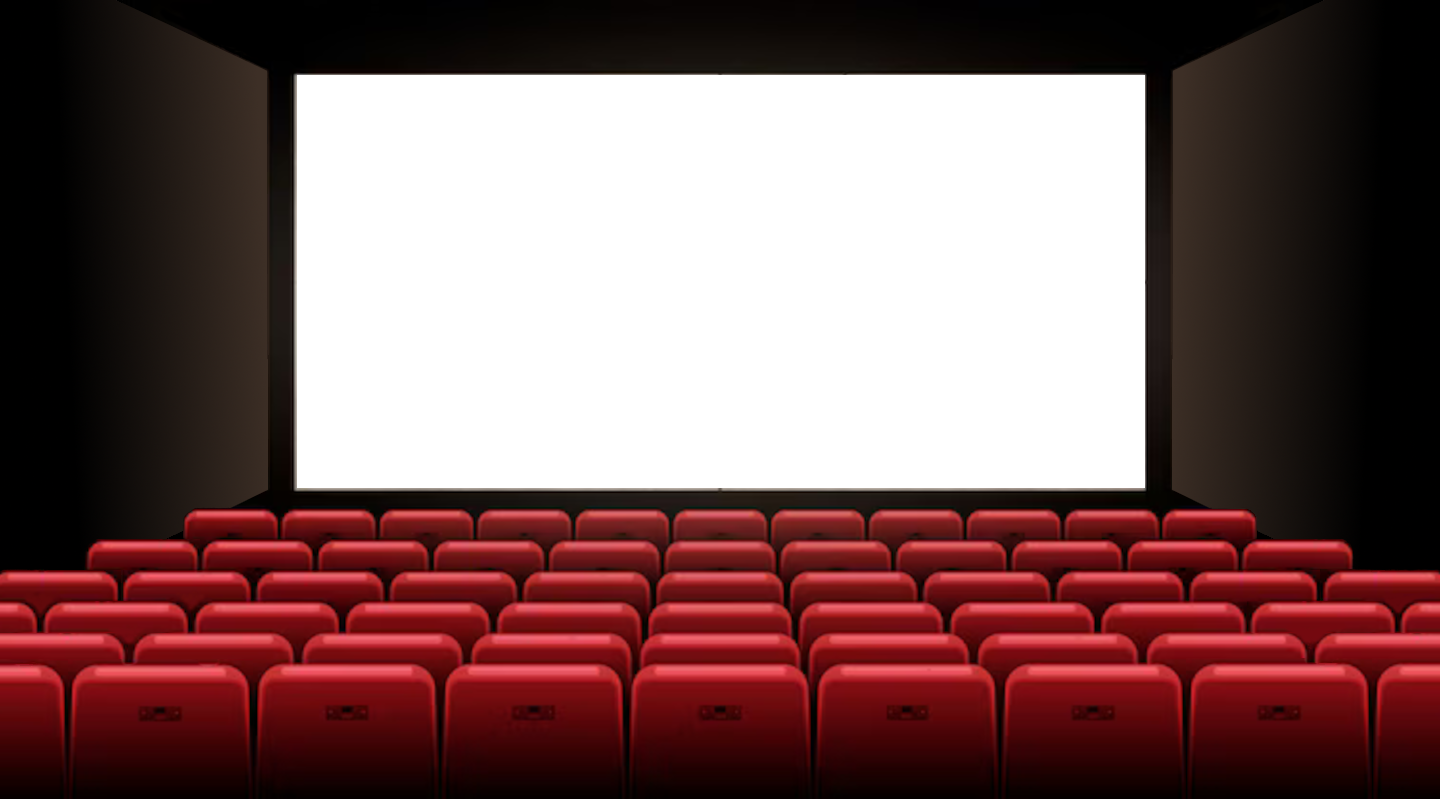
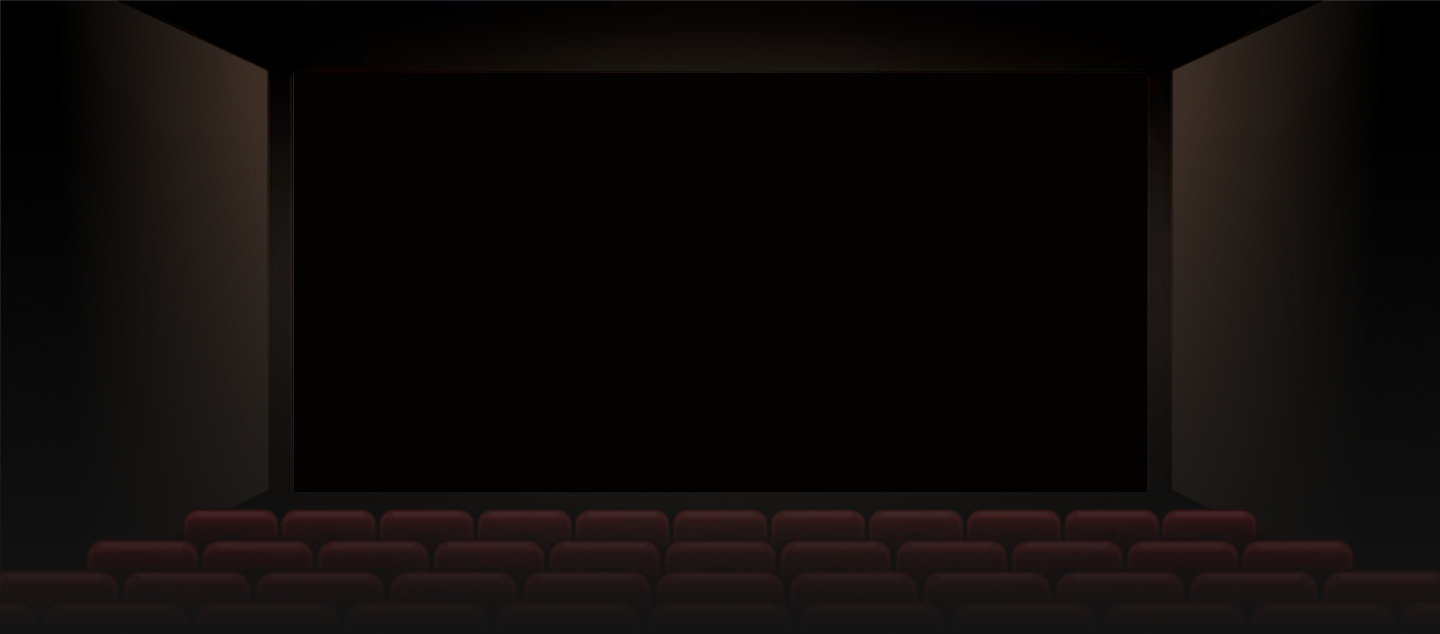
💄 Changement image fond

diff --git a/src/components/hero/hero.jsx b/src/components/hero/hero.jsx
@@ -8,12 +8,14 @@ const Hero = () => {
     const [error, setError] = useState(null);
     const [movies, setMovies] = useState([]);
     const [currentMovieIndex, setCurrentMovieIndex] = useState(0);
+    const [previousMovieIndex, setPreviousMovieIndex] = useState(null);
+    const [fadeClass, setFadeClass] = useState("fade-in");
 
     useEffect(() => {
         const getPopularMovies = async () => {
             try {
                 const popularMovies = await fetchMovies();
-                setMovies(popularMovies.slice(0, 10)); // Prendre les 10 premiers films populaires
+                setMovies(popularMovies.slice(0, 20)); // Prendre les 20 premiers films populaires
             } catch (error) {
                 console.error("Erreur lors de la récupération des films populaires:", error);
                 setError(error.message);
@@ -26,18 +28,24 @@ const Hero = () => {
     useEffect(() => {
         if (movies.length > 0) {
             const interval = setInterval(() => {
-                setCurrentMovieIndex(prevIndex => (prevIndex + 1) % movies.length);
-            }, 5000); // Changer de film toutes les 5 secondes
+                setFadeClass("fade-out");
+                setPreviousMovieIndex(currentMovieIndex);
+                setTimeout(() => {
+                    setCurrentMovieIndex(prevIndex => (prevIndex + 1) % movies.length);
+                    setFadeClass("fade-in");
+                }, 500); // Durée de l'animation de fondu
+            }, 3000); // Changer de film toutes les 3 secondes
 
             return () => clearInterval(interval);
         }
-    }, [movies]);
+    }, [movies, currentMovieIndex]);
 
     if (error) {
         return <div>Erreur: {error}</div>;
     }
 
     const currentMovie = movies[currentMovieIndex];
+    const previousMovie = previousMovieIndex !== null ? movies[previousMovieIndex] : null;
 
     return (
         <div className="position-relative">
@@ -46,18 +54,29 @@ const Hero = () => {
                 className="img-fluid w-100 banner-image"
                 alt="Le plus populaire"
             />
-            {currentMovie && currentMovie.backdrop_path && (
+            {previousMovie && previousMovie.backdrop_path && (
                 <div 
-                    className="position-absolute movie-backdrop"
+                    className={`position-absolute movie-backdrop fade-out`}
                     style={{
-                        backgroundImage: `url(https://image.tmdb.org/t/p/original${currentMovie.backdrop_path})`,
+                        backgroundImage: `url(https://image.tmdb.org/t/p/original${previousMovie.backdrop_path})`,
                         backgroundSize: 'cover',
                         backgroundPosition: 'center',
                         zIndex: 1
                     }}
                 />
             )}
-            <div className="position-absolute top-0 start-0 w-100 h-100 d-flex flex-column justify-content-center align-items-center" style={{ zIndex: 2 }}>
+            {currentMovie && currentMovie.backdrop_path && (
+                <div 
+                    className={`position-absolute movie-backdrop ${fadeClass}`}
+                    style={{
+                        backgroundImage: `url(https://image.tmdb.org/t/p/original${currentMovie.backdrop_path})`,
+                        backgroundSize: 'cover',
+                        backgroundPosition: 'center',
+                        zIndex: 2
+                    }}
+                />
+            )}
+            <div className="position-absolute top-0 start-0 w-100 h-100 d-flex flex-column justify-content-center align-items-center" style={{ zIndex: 3 }}>
                 <div className="bg-overlay text-white p-4 w-100 titreBox">
                     <div className="tag mb-2 d-flex align-items-center">
                         <span className="me-2">🔥</span> Le + populaire

diff --git a/src/components/hero/hero.css b/src/components/hero/hero.css
@@ -1,46 +1,60 @@
 .hero {
-    height: 100vh;
-    position: relative;
-    display: flex;
-    justify-content: center;
-    align-items: flex-start;
-  }
-  
-  .banner {
-    height: 100%;
-    background-size: cover;
-    background-position: center;
-  }
-  
-  .overlay {
-    background: rgba(0, 0, 0, 0.5); /* Pour un effet de superposition */
-    height: 100%;
-    width: 100%;
-    display: flex;
-    flex-direction: column;
-    justify-content: center;
-    align-items: center;
-  }
-  
-  .tag {
-    font-size: 1.2rem;
-  }
-  
-  .textContainer {
-    display: flex;
-    padding: 4%;
-    flex-direction: column;
-    justify-content: flex-end;
-    align-items: flex-start;
-    gap: 1rem;
-    flex: 1 0 0;
-  }
+  height: 100vh;
+  position: relative;
+  display: flex;
+  justify-content: center;
+  align-items: flex-start;
+}
+
+.banner {
+  height: 100%;
+  background-size: cover;
+  background-position: center;
+}
+
+.overlay {
+  background: rgba(0, 0, 0, 0.5); /* Pour un effet de superposition */
+  height: 100%;
+  width: 100%;
+  display: flex;
+  flex-direction: column;
+  justify-content: center;
+  align-items: center;
+}
+
+.tag {
+  font-size: 1.2rem;
+}
+
+.textContainer {
+  display: flex;
+  padding: 4%;
+  flex-direction: column;
+  justify-content: flex-end;
+  align-items: flex-start;
+  gap: 1rem;
+  flex: 1 0 0;
+}
 
 .movie-backdrop {
-  top: 9.35% !important;
+  top: 11.8% !important;
   left: 20.45% !important;
   width: 59.1%;
-  height: 52%;
+  height: 66%;
+  transition: opacity 0.5s ease-in-out;
+  position: absolute;
+  z-index: 1;
+  opacity: 0;
+}
+
+.fade-in {
+  opacity: 1;
+  z-index: 2;
+}
+
+.fade-out {
+  opacity: 0;
+  z-index: 1;
 }
 
 .titreBox {

diff --git a/src/pages/homepage.jsx b/src/pages/homepage.jsx
@@ -25,27 +25,6 @@ const genreIds = {
   "western": 37
 };
 
-const genreIds = {
-  "d'action": 28,
-  "d'adventure": 12,
-  "d'animation": 16,
-  "de comédie": 35,
-  "de crime": 80,
-  "documentaires": 99,
-  "de drama": 18,
-  "à regarder en famille": 10751,
-  "fantastiques": 14,
-  "historiques": 36,
-  "d'horreur": 27,
-  "musicaux": 10402,
-  "de romance": 10749,
-  "de science fiction": 878,
-  "de télécrochet": 10770,
-  "thriller": 53,
-  "de guerre": 10752,
-  "western": 37
-};
-
 const Home = () => {
   const [recentMovies, setRecentMovies] = useState([]);
   const [topRatedMovies, setTopRatedMovies] = useState([]);
